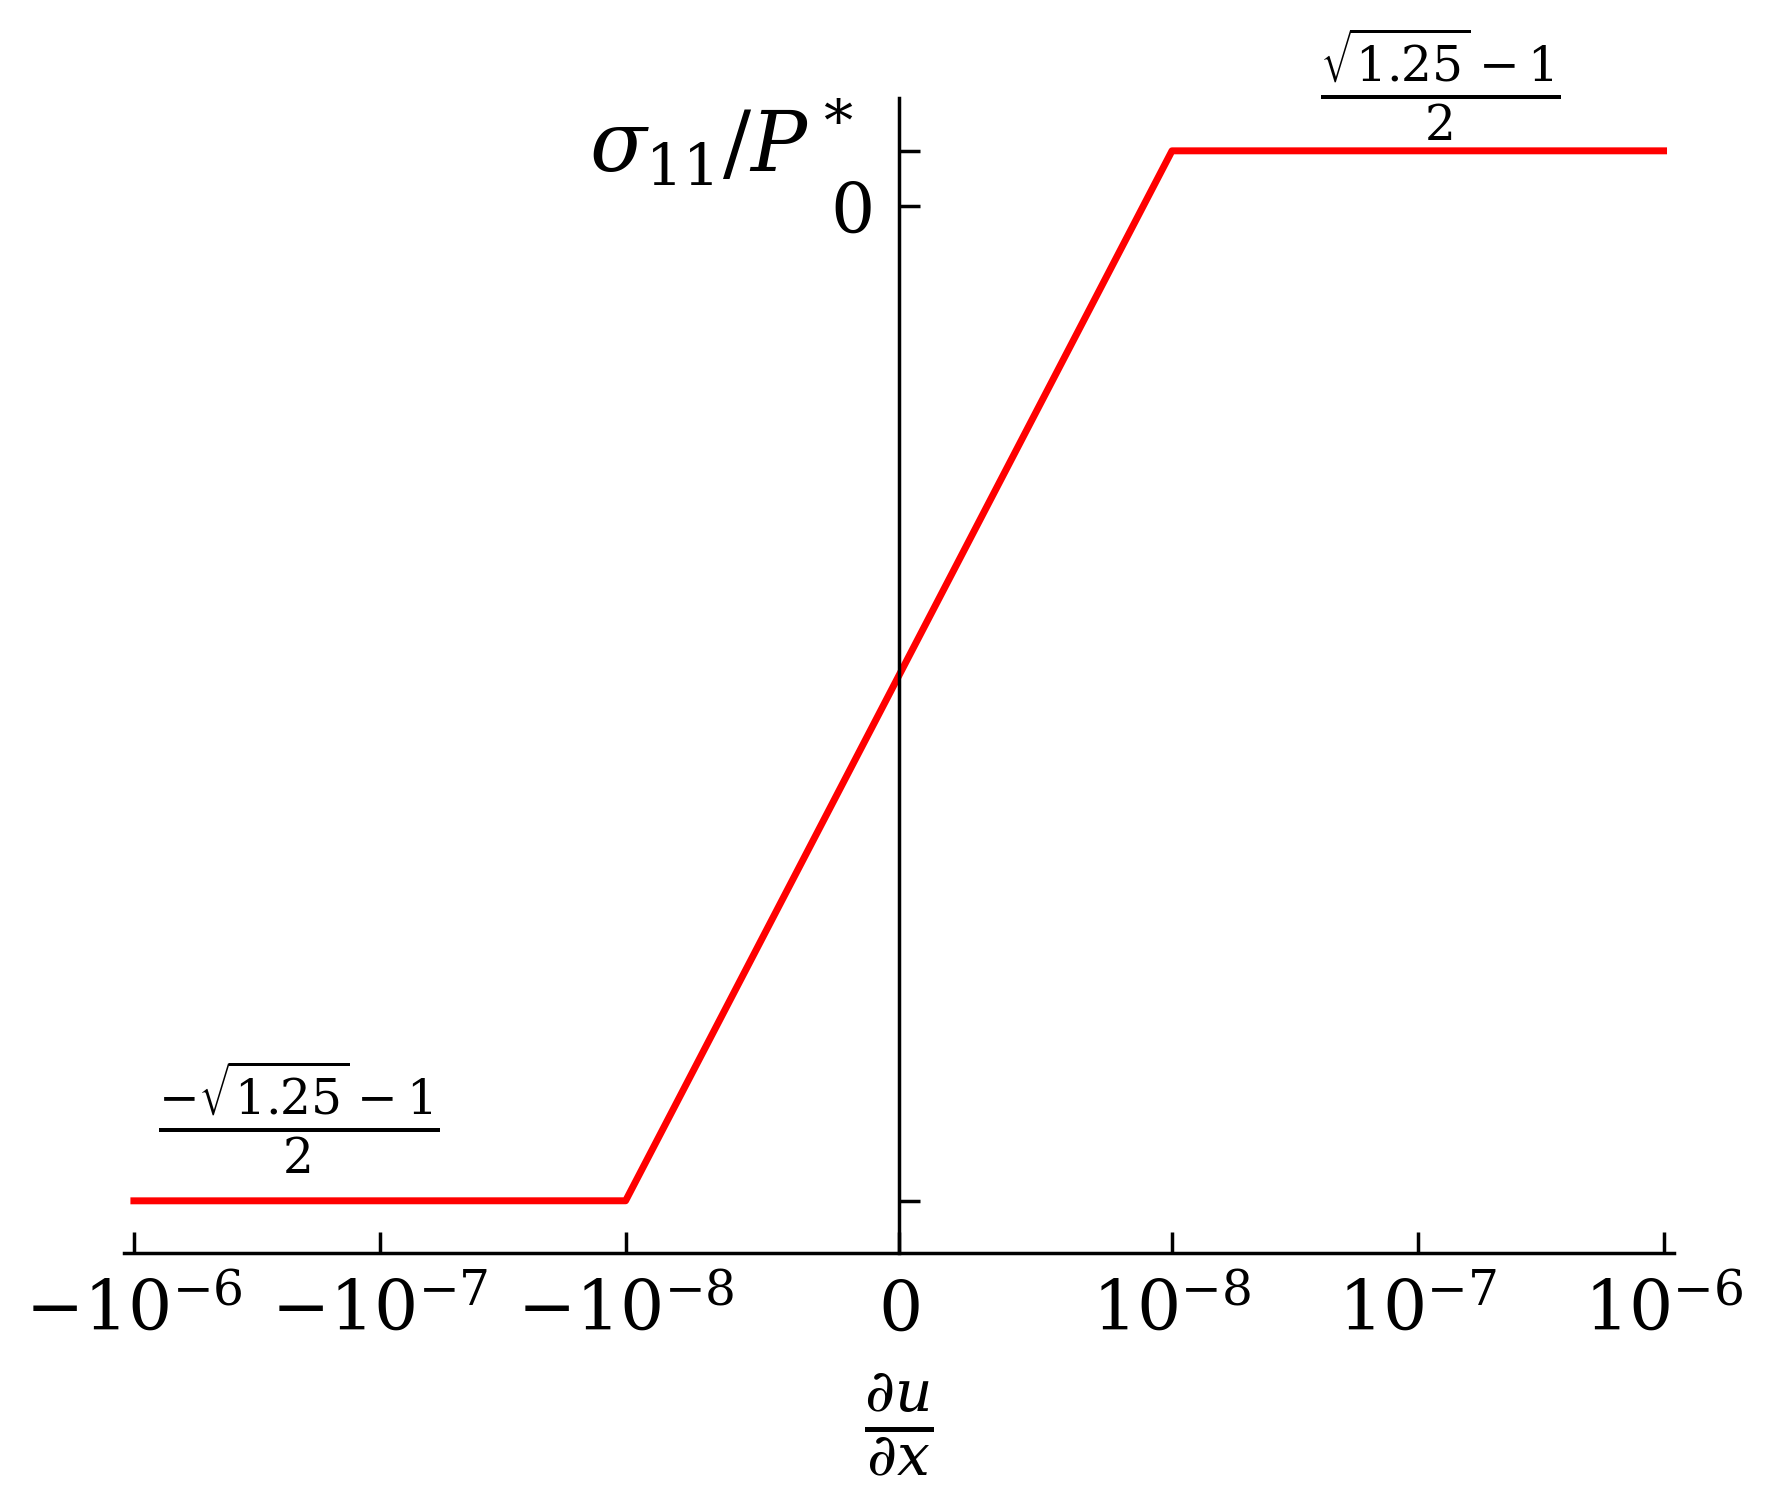
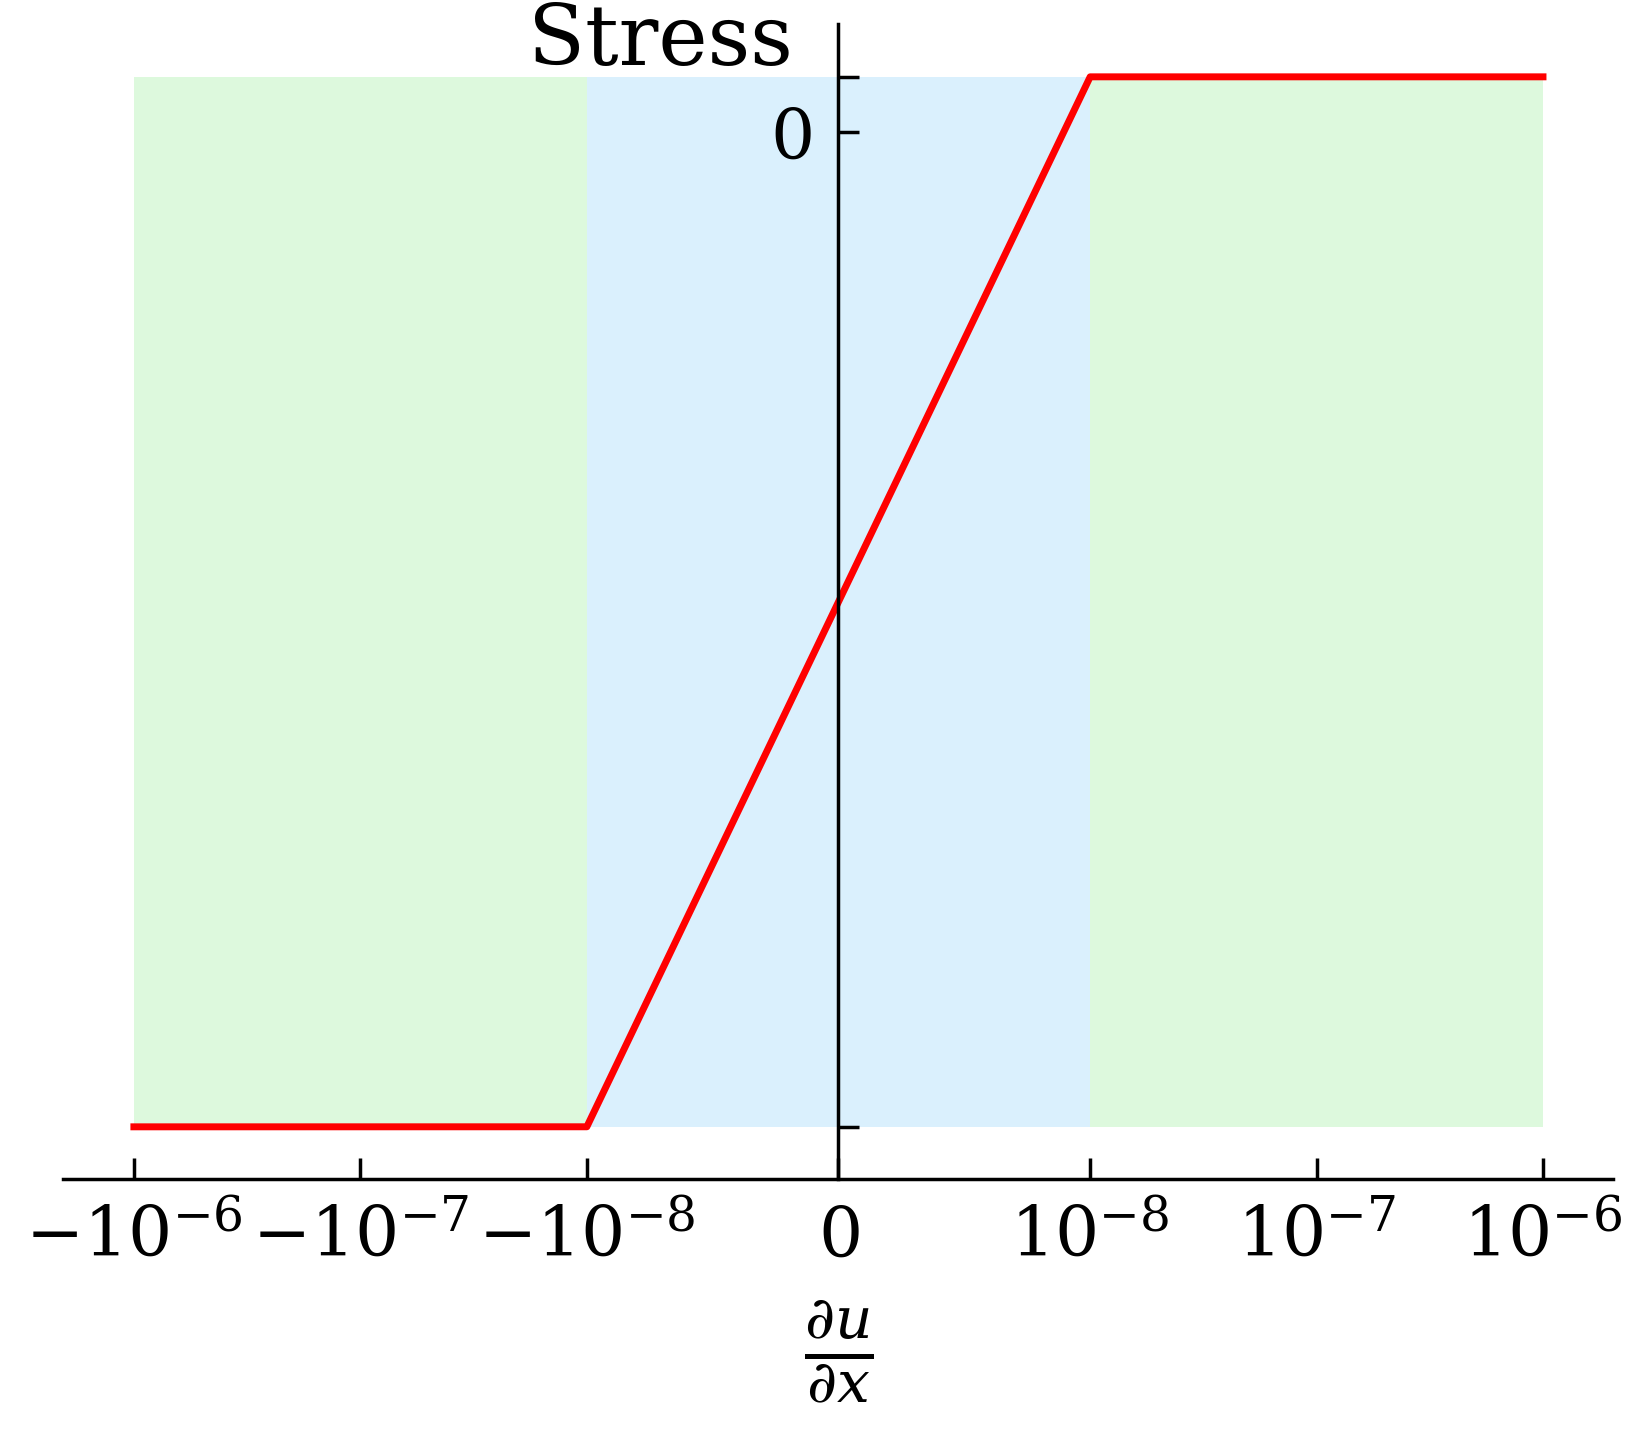
figures: Rheology
Changed the main figures to plot the 1D VP stresses. Those were  modifications
made for a presentation.

diff --git a/RheologyFigures/1d_stresses.py b/RheologyFigures/1d_stresses.py
@@ -10,7 +10,8 @@ muinf = 0.8
 delta_mu = muinf-mu0
 dmean = 1000
 rhoice = 900
-
+psi_d = 1/2*((1+e**(-2))**(1/2)-1)
+psi_c = 1/2*(-(1+e**(-2))**(1/2)-1)
 
 def VP_rheology(dudx, dudx_c = 1e-8):
     
@@ -68,13 +69,31 @@ plt.plot(dudx, sigma_11_VP, label = 'VP', color = 'r')
 # plt.plot(dudx, sigma_11_GC, label = 'GC', color = 'b')
 plt.ticklabel_format(style='sci', axis='x', scilimits=(0,0))
 plt.yticks(positions, labels, fontsize = 9)
-plt.text(4e-8, 0.1, r'$\frac{\sqrt{1.25}-1}{2}$')
-plt.text(-0.8e-6, -1,r'$\frac{-\sqrt{1.25}-1}{2}$')
-ax.yaxis.set_label_coords(0.3,0.92)
+# plt.text(4e-8, 0.1, r'$\frac{\sqrt{1.25}-1}{2}$')
+# plt.text(-0.8e-6, -1,r'$\frac{-\sqrt{1.25}-1}{2}$')
+ax.yaxis.set_label_coords(0.3,0.95)
 # ax.spines['bottom'].set_position('center')
+ax.fill_betweenx(
+    [psi_c, psi_d],
+    -1e-8, 1e-8,
+    color='lightskyblue', alpha=0.3, 
+    edgecolor = None
+)
+ax.fill_betweenx(
+    [psi_c, psi_d],
+    -1e-8, -1e-6,
+    color='lightgreen', alpha=0.3, 
+    edgecolor = None
+)
+ax.fill_betweenx(
+    [psi_c, psi_d],
+    1e-8, 1e-6,
+    color='lightgreen', alpha=0.3, 
+    edgecolor = None
+)
 ax.spines['left'].set_position('center')
 plt.xscale('symlog', linthresh = 1e-8)
 # plt.xscale('log')
 plt.xlabel(r'$\frac{\partial{u}}{\partial{x}}$',fontsize=12)
-plt.ylabel(r'$\sigma_{11}/P^*$', rotation=0, fontsize=12, ha='left')
+plt.ylabel(r'Stress', rotation=0, fontsize=12, ha='left')
 plt.savefig('sigma_11.png')
